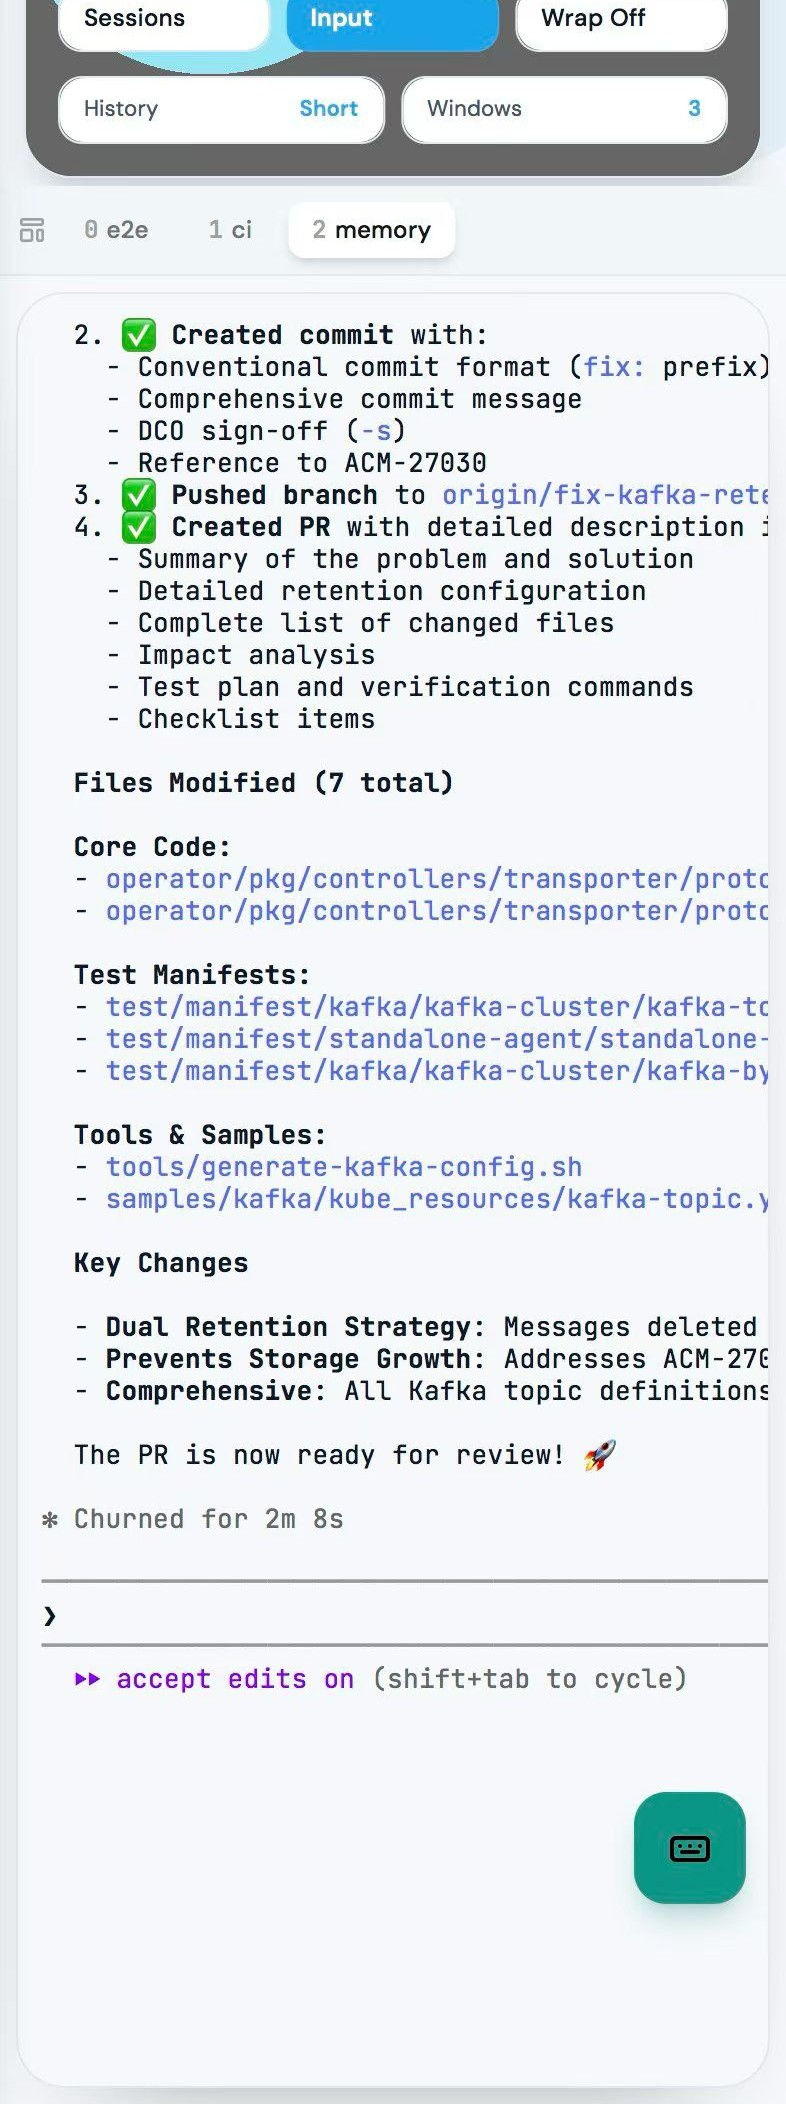
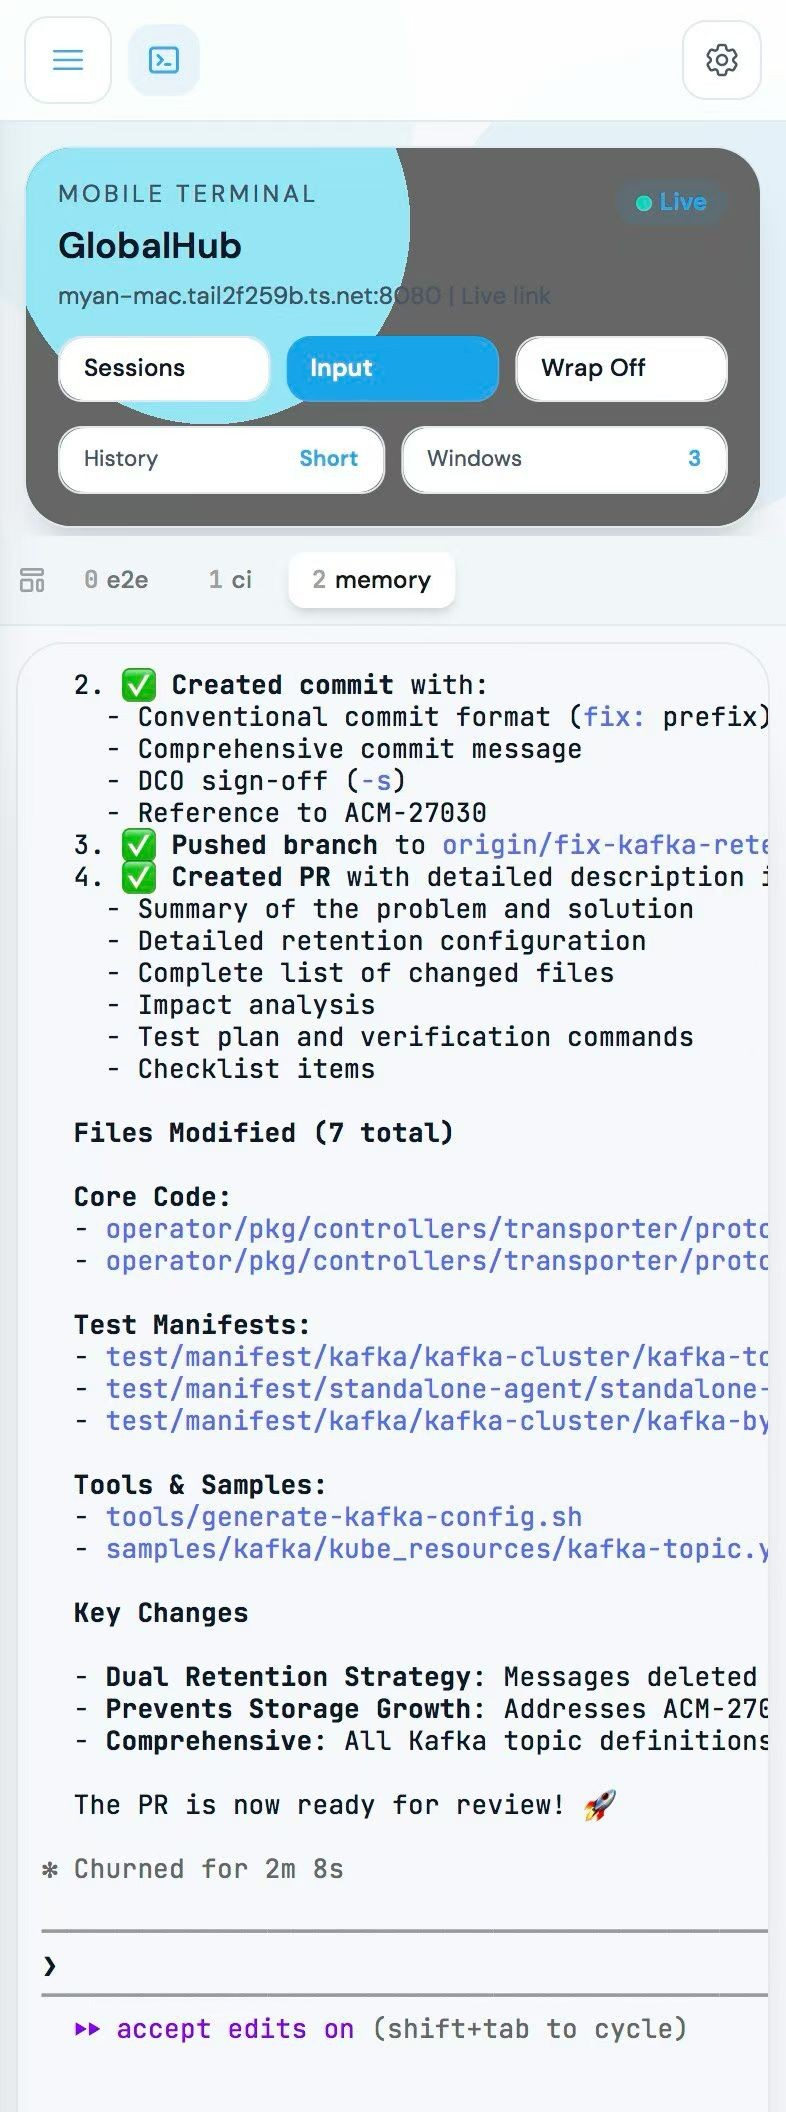
docs: keep top, crop bottom of session list to match terminal height

diff --git a/README.md b/README.md
@@ -5,9 +5,9 @@
 HandX lets you manage tmux sessions on your dev machine from anywhere. Run long tasks on your server, then pick up your phone to check progress, send commands, or switch windows — all through a WebSocket connection.
 
 <p align="center">
-  <img src="docs/screenshots/terminal-live.jpg" alt="Live Terminal" width="180" height="480" style="vertical-align: top;" />
+  <img src="docs/screenshots/terminal-live.jpg" alt="Live Terminal" width="180" />
   &nbsp;&nbsp;
-  <img src="docs/screenshots/home-sessions.jpg" alt="Session List" width="180" height="480" style="vertical-align: top;" />
+  <img src="docs/screenshots/home-sessions.jpg" alt="Session List" width="180" />
 </p>
 <p align="center">
   <em>Left: Live terminal &nbsp;|&nbsp; Right: Session list</em>